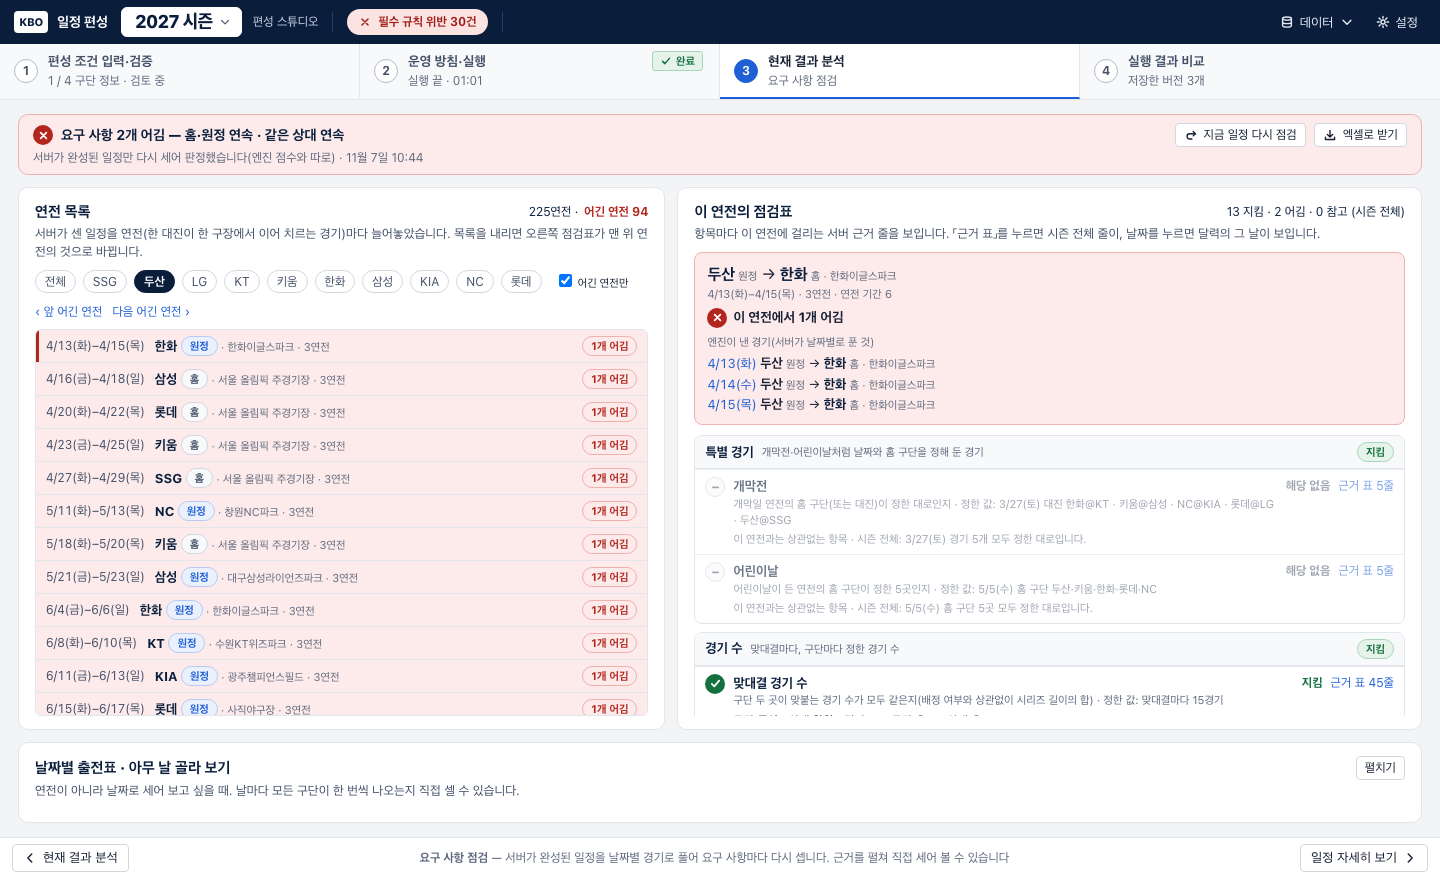
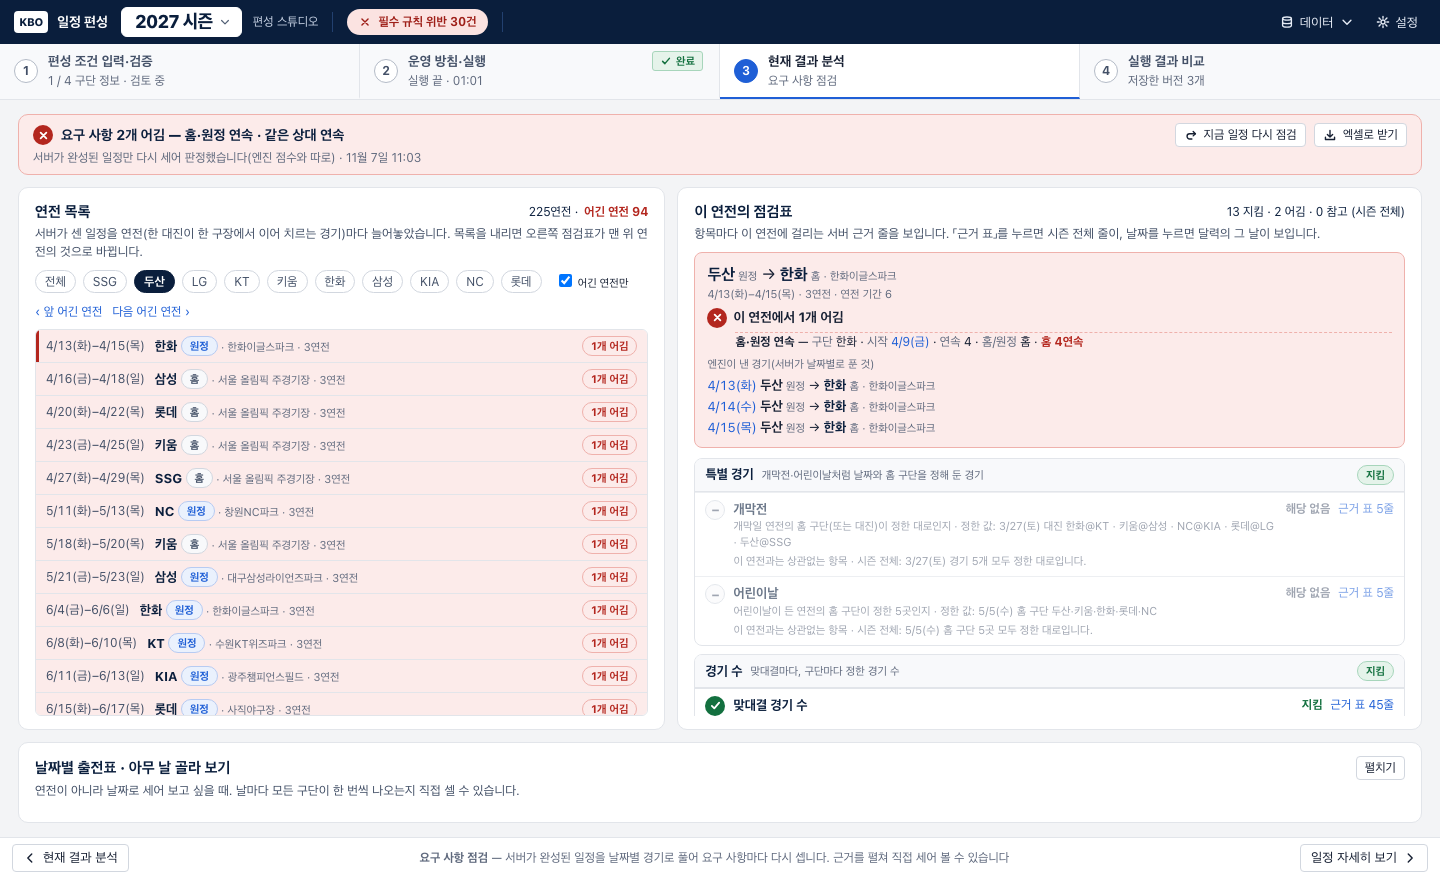
대안 C: 머리 상자의 어긴 항목 요약이 비지 않게(어긴 줄이 없으면 걸린 줄·「근거 표 참고」) · 구단 고른 그림 다시 찍음

Changed region(s): [[0.4688, 0.3694, 0.9688, 0.8312], [0.9062, 0.7081, 0.9688, 0.8312], [0.875, 0.6465, 0.9688, 0.6773]]

diff --git a/ui/app/studio/verify-view.js b/ui/app/studio/verify-view.js
@@ -250,7 +250,7 @@
     const head = '<div class="pf-vchk-head' + (s.bad.length ? ' bad' : '') + '"><div class="t"><b>' + esc(s.away) + '</b><span class="xs muted"> 원정</span> → <b>' + esc(s.home) + '</b><span class="xs muted"> 홈 · ' + esc(s.stadium || '구장 없음') + '</span></div>' +
       '<div class="xs muted">' + range(s) + ' · ' + nOf(s) + '연전' + (s.slot >= 0 ? ' · 연전 기간 ' + (s.slot + 1) : '') + '</div>' +
       '<div class="pf-vchk-verdict">' + (s.bad.length ? verdictIcon(FAIL) + '<b>이 연전에서 ' + s.bad.length + '개 어김</b>' : verdictIcon(PASS) + '<b>이 연전은 모두 지킴</b>') + (stale ? ' <span class="pf-tag est">다른 일정</span>' : '') + '</div>' +
-      (s.bad.length ? '<ul class="pf-vchk-rows pf-vchk-badsum">' + items(v).filter((it) => s.bad.includes(it.id)).map((it) => '<li><b>' + esc(it.title) + '</b> — ' + stateOf(c, s, it).rows.filter((r) => r.judge && !OK_JUDGE.test(r.judge)).slice(0, 3).map((r) => rowText(it, r)).join('<br>') + '</li>').join('') + '</ul>' : '') + // 어긴 항목은 맨 위에 근거와 함께(내리지 않아도 보이게)
+      (s.bad.length ? '<ul class="pf-vchk-rows pf-vchk-badsum">' + items(v).filter((it) => s.bad.includes(it.id)).map((it) => '<li><b>' + esc(it.title) + '</b> — ' + (function (rows) { const bad = rows.filter((r) => r.judge && !OK_JUDGE.test(r.judge)); return (bad.length ? bad : rows).slice(0, 3).map((r) => rowText(it, r)).join('<br>') || '근거 표 참고'; })(stateOf(c, s, it).rows) + '</li>').join('') + '</ul>' : '') + // 어긴 항목은 맨 위에 근거와 함께(내리지 않아도 보이게)
       '<div class="xs muted" style="margin-top:6px">엔진이 낸 경기(서버가 날짜별로 푼 것)</div>' + games + '</div>';
     const groups = (v.groups || []).map((g) => {
       const rows = (g.items || []).map((it) => {
